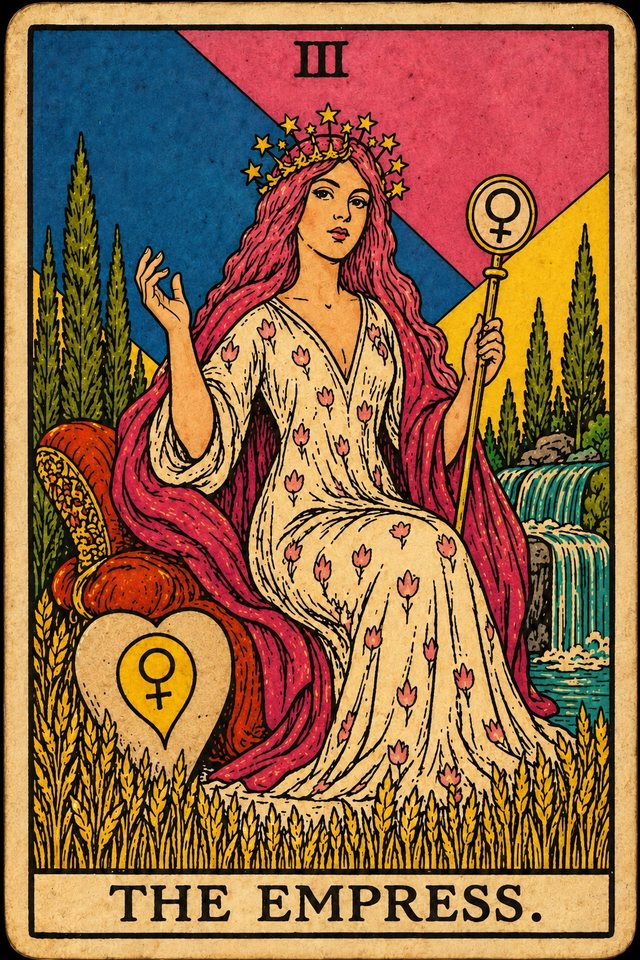
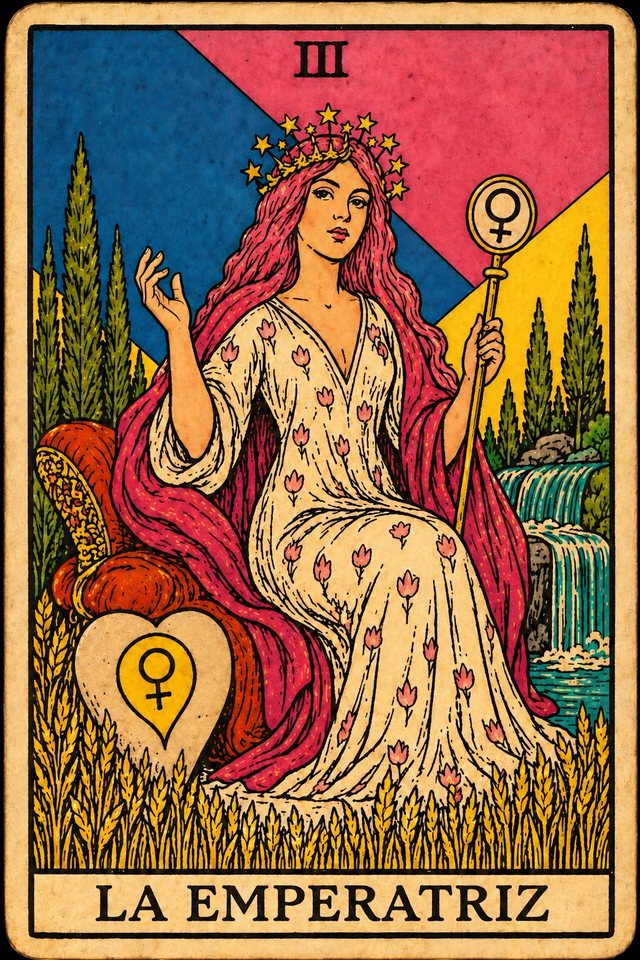
Nueva carta de La Emperatriz en castellano
Claude-Session: https://claude.ai/code/session_01LAp63uhVHourNbvKqACRc5

diff --git a/app.js b/app.js
@@ -137,7 +137,7 @@
     var c = cardById(id); if (!c || !$('#catalog')) return;
     currentCard = c;
     $('#catalog').className = 'overlay catalog' + (c.dark ? ' catalog-dark' : '');
-    $('#catalog-img').src = 'img/cartas/' + c.id + '.jpg?v=6';
+    $('#catalog-img').src = 'img/cartas/' + c.id + '.jpg?v=7';
     $('#catalog-img').alt = 'Carta del tarot: ' + c.name;
     $('#catalog-arcano').textContent = c.numeral + ' · ' + c.name.toUpperCase();
     $('#catalog-name').textContent = c.title;
@@ -156,7 +156,7 @@
     $('#cards-grid').innerHTML = CARDS.map(function (c) {
       return '<button type="button" class="tarot" data-open-card="' + c.id + '" aria-label="' + esc(c.name) + ': ver ' + esc(c.title.toLowerCase()) + '">' +
         '<span class="tarot-outer"><span class="tarot-inner">' +
-        '<span class="tarot-img"><img src="img/cartas/' + c.id + '.jpg?v=6" alt="Carta del tarot: ' + esc(c.name) + '"></span>' +
+        '<span class="tarot-img"><img src="img/cartas/' + c.id + '.jpg?v=7" alt="Carta del tarot: ' + esc(c.name) + '"></span>' +
         '<span class="rule"><span>✦</span></span>' +
         '<span class="tarot-cat">' + esc(c.label) + '</span>' +
         '<span class="tarot-sign">INTIMATTA</span>' +

diff --git a/index.html b/index.html
@@ -161,6 +161,6 @@
 </footer>
 
 <div id="cart-root"></div>
-<script src="app.js?v=6" defer></script>
+<script src="app.js?v=7" defer></script>
 </body>
 </html>

diff --git a/mas18.html b/mas18.html
@@ -69,6 +69,6 @@
 </footer>
 
 <div id="cart-root"></div>
-<script src="app.js?v=6" defer></script>
+<script src="app.js?v=7" defer></script>
 </body>
 </html>
